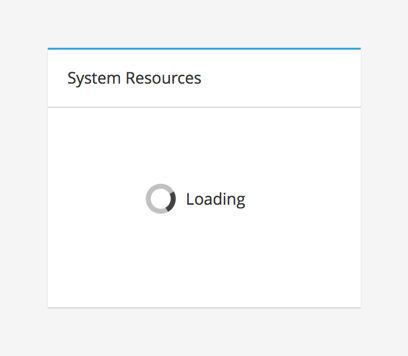
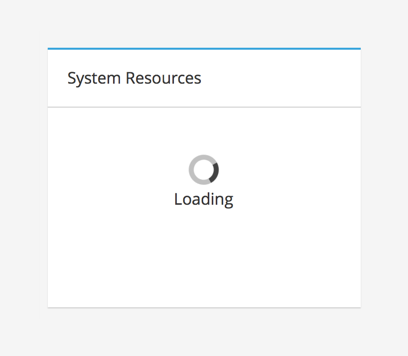
Updating wording and image

Changed region(s): [[0.3529, 0.4326, 0.6176, 0.618]]

diff --git a/pattern-library/cards/base-card/design/design.md b/pattern-library/cards/base-card/design/design.md
@@ -30,7 +30,7 @@ There are two options for where the time frame filter may be placed:
 ## Loading
 ![Image of loading state](img/card-loading.png)
 
-While the data for a card is loading, the card's contents are replaced with a [spinning loading icon](http://www.patternfly.org/pattern-library/widgets/#spinner) and a message. The message is customizable, but defaults to "Loading". While the card is in a loading state, any actions that could be taken on the card's content are disabled. The default height of the loading card should be set so that the size of the card changes as little as possible when data appears and is rendered.
+While the data for a card is loading, the card's contents are replaced with a [spinning loading icon](http://www.patternfly.org/pattern-library/widgets/#spinner) and a message. The message is customizable, but defaults to "Loading". While the card is in a loading state, any actions that could be taken on the card's content are disabled. Cards should not change height when data appears and is rendered.
 
 ## No Data Available
 ![Image of no data available state](img/card-no-data.png)
